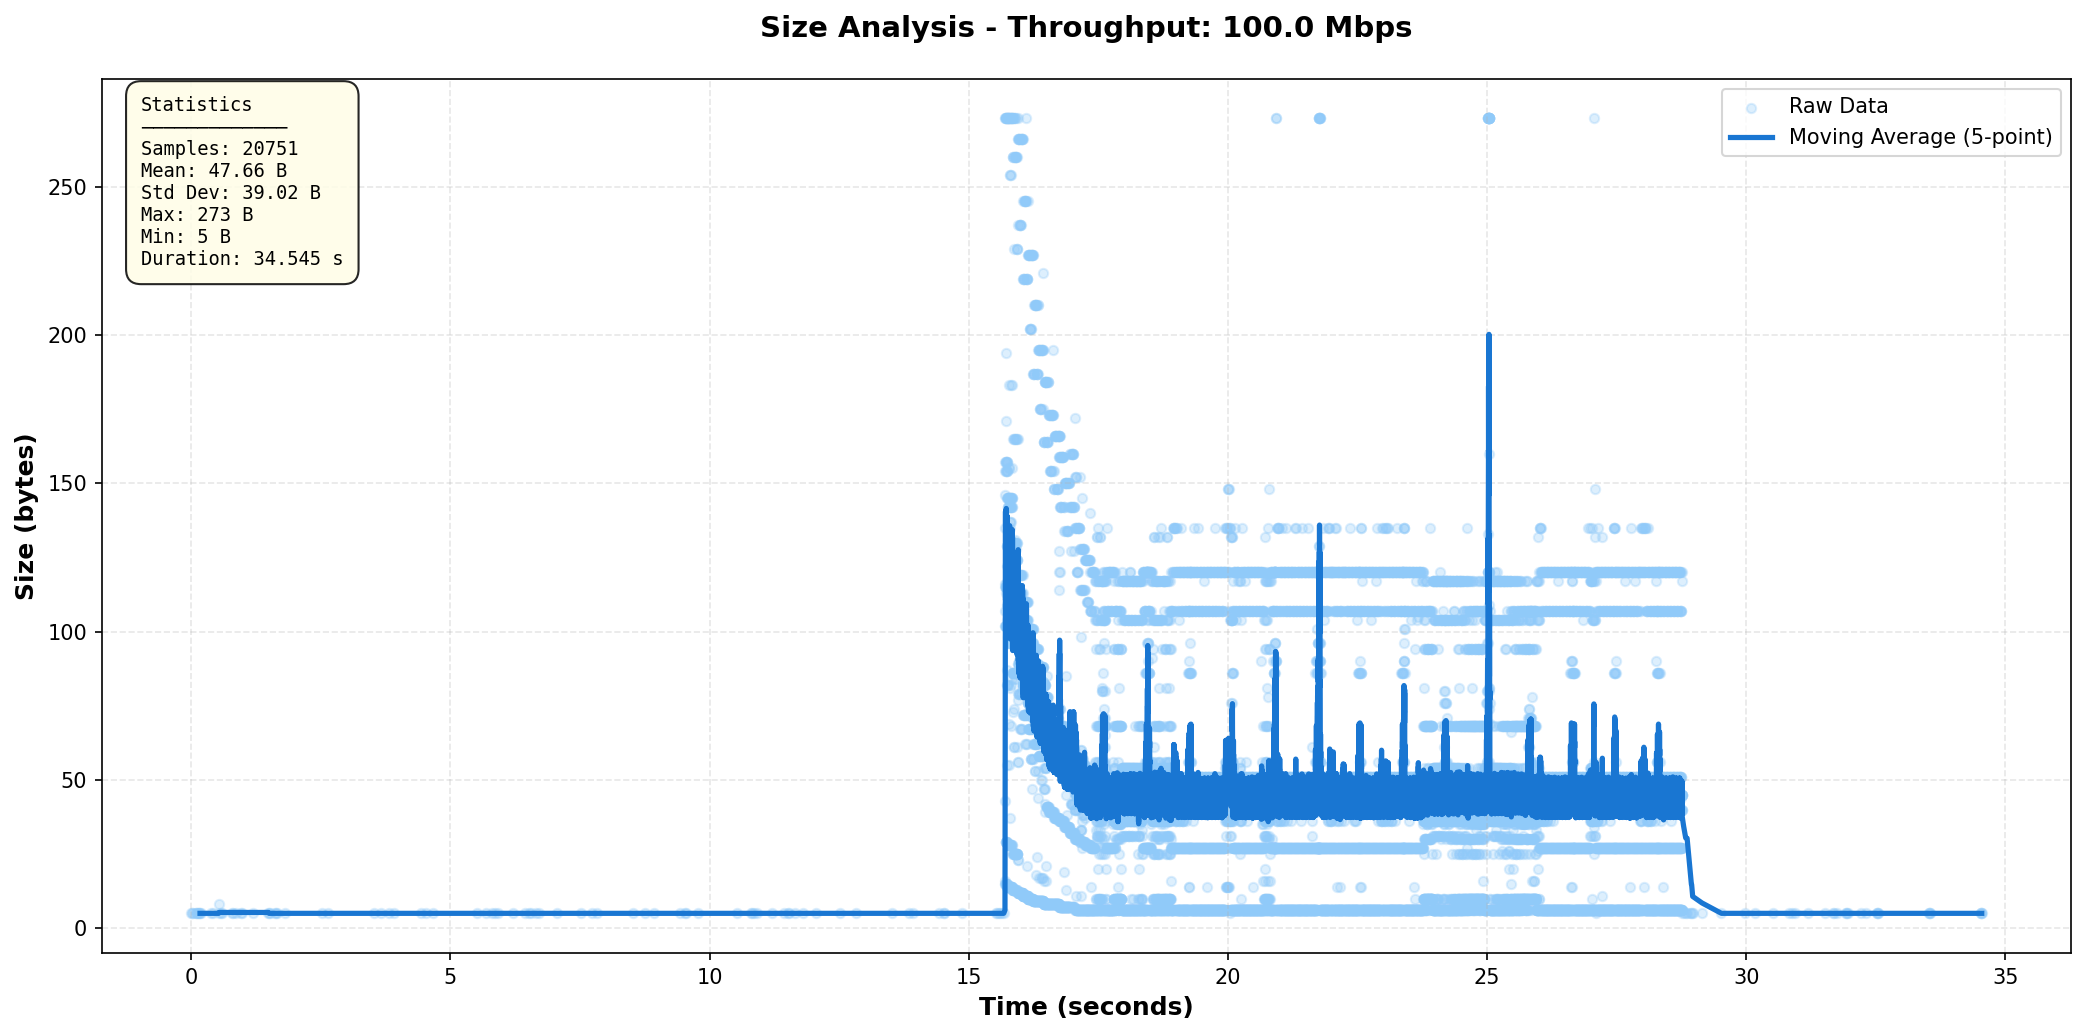
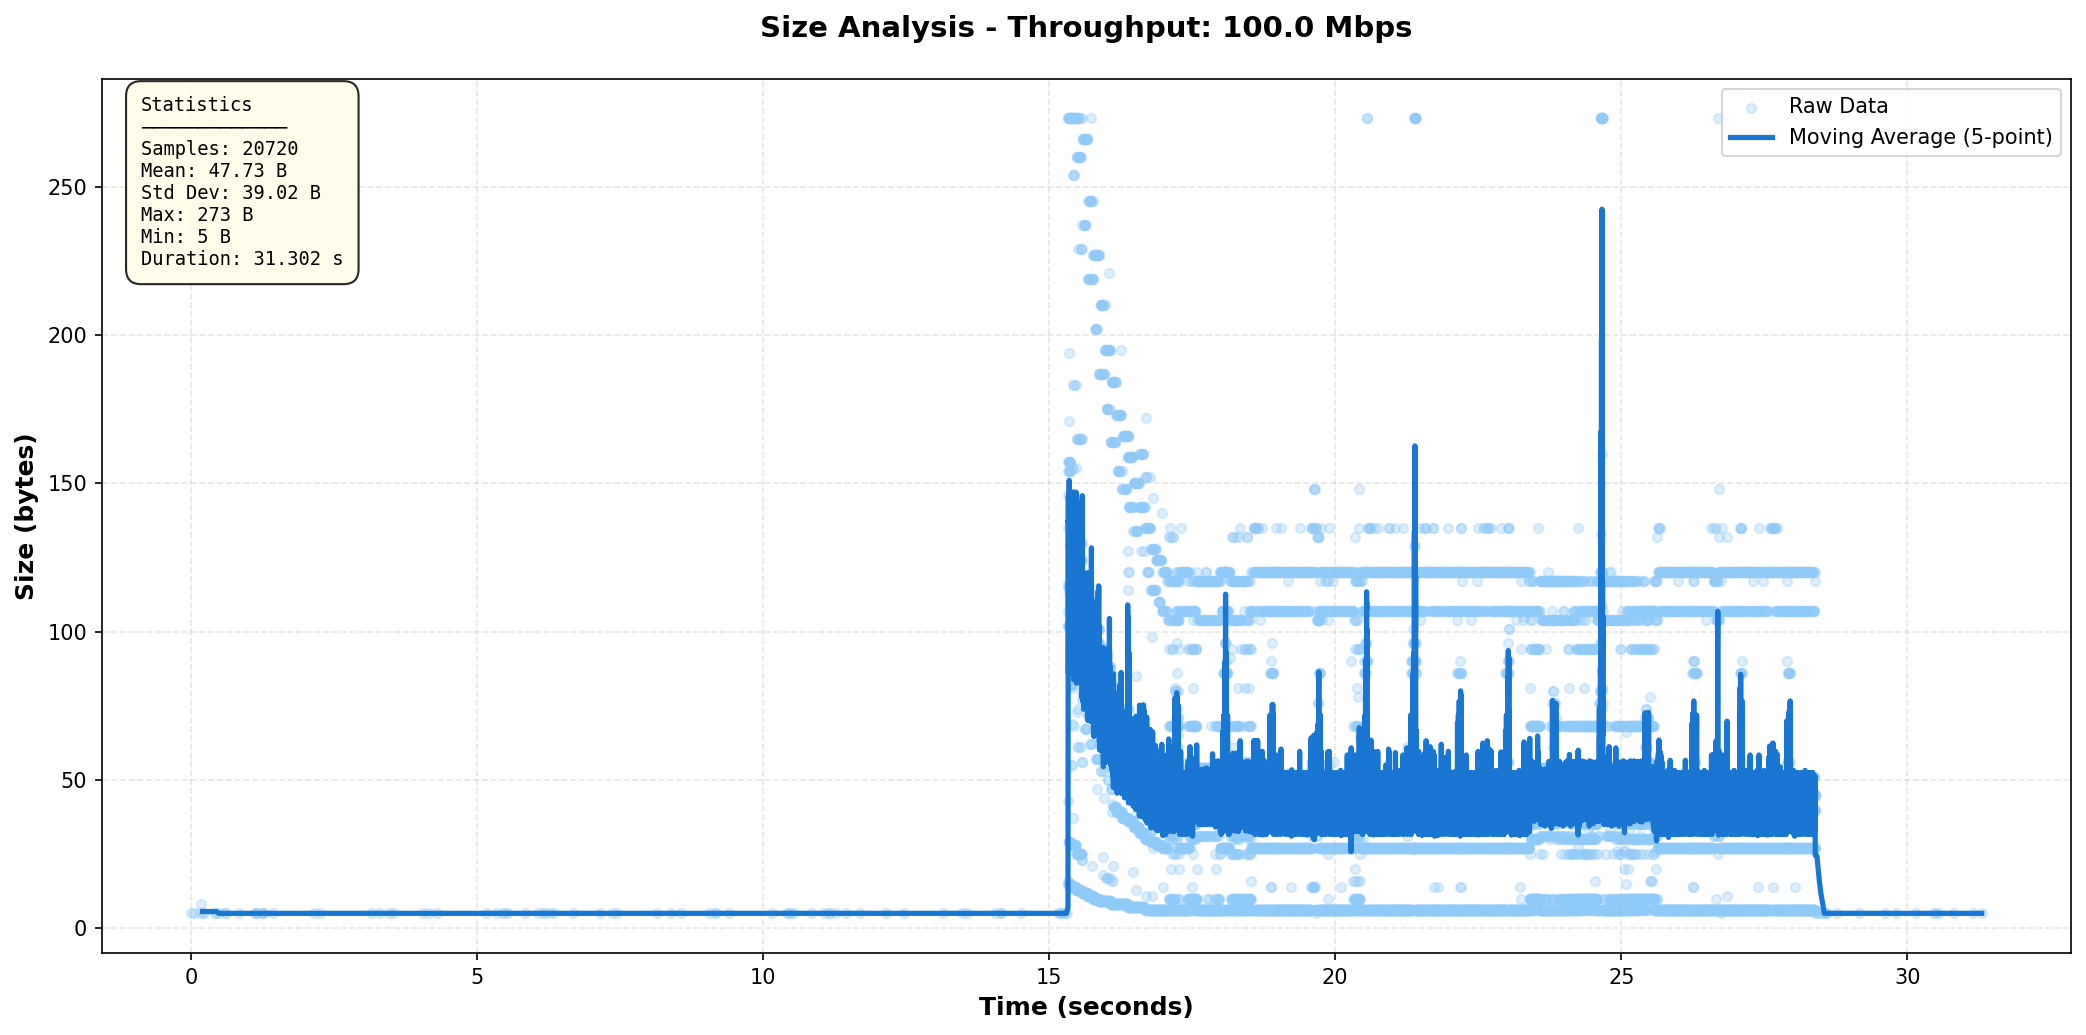
feat: Update log parser to v3 with auto-trimming of stable regions and improved visualization

diff --git a/PRB/log_parser.py b/PRB/log_parser.py
@@ -1,10 +1,12 @@
 #!/usr/bin/env python3
 """
-Log Parser for UE Size Analysis (Advanced v2)
+Log Parser for UE Size Analysis (Advanced v3)
 - Auto-extract throughput from filename
 - English only text to avoid font issues
 - Moving average + original data overlay for noisy data
 - Hide UE ID from filename and chart title
+- Auto-detect and trim stable regions (constant size=5) at start/end
+- Keep the main data section for consistent visualization
 """
 
 import sys
@@ -63,6 +65,62 @@ def parse_log_file(filepath):
         sys.exit(1)
     
     return ue_data
+
+def detect_and_trim_stable_regions(data, stable_threshold=5, min_stable_length=10):
+    """
+    Auto-detect and trim stable regions (constant value) at start and end.
+    
+    Detects where data becomes "interesting" (changes significantly from stable value).
+    This removes the boring setup/teardown phases before and after actual transmission.
+    
+    Args:
+        data: List of dicts with 'size' key
+        stable_threshold: Threshold for detecting stable region (default: size=5)
+        min_stable_length: Minimum consecutive samples to consider a region stable
+    
+    Returns:
+        tuple: (trimmed_data, start_idx, end_idx, trim_info_str)
+    """
+    if len(data) < min_stable_length:
+        return data, 0, len(data), "Data too short, no trimming applied"
+    
+    sizes = np.array([d['size'] for d in data])
+    
+    # Find where data differs from stable_threshold using difference detection
+    # This identifies where the interesting part starts/ends
+    changes = np.abs(np.diff(sizes.astype(float)))
+    
+    # Find significant changes (> 0, meaning size changed from previous)
+    change_indices = np.where(changes > 0)[0]
+    
+    if len(change_indices) == 0:
+        # All data is the same value, no trimming needed
+        return data, 0, len(data), "All data is constant"
+    
+    # The first significant change marks the start of interesting data
+    first_change_idx = change_indices[0]
+    
+    # The last significant change marks around the end of interesting data
+    last_change_idx = change_indices[-1]
+    
+    # Add buffer after last change to include post-change stable region
+    start_trim = max(0, first_change_idx - 2)  # Start from a bit before first change
+    end_trim = min(len(data), last_change_idx + 20)  # Include some data after last change
+    
+    # But ensure we're not trimming too much
+    if end_trim - start_trim < 20:  # Minimum keep 20 samples
+        # Try to keep at least 50% of data if changes are minimal
+        margin = max(len(data) // 4, 10)
+        start_trim = max(0, first_change_idx - margin)
+        end_trim = min(len(data), last_change_idx + margin)
+    
+    trimmed_data = data[start_trim:end_trim]
+    
+    trim_info = f"Trimmed: {start_trim} to {end_trim} (removed {start_trim} from start, {len(data)-end_trim} from end, kept {len(trimmed_data)} samples)"
+    
+    print(f"   TRIM: {trim_info}")
+    
+    return trimmed_data, start_trim, end_trim, trim_info
 
 def extract_throughput_from_filename(log_file):
     """
@@ -158,6 +216,7 @@ def calculate_moving_average(data, window=5):
 def plot_single_ue(ue_id, data, throughput=None, filename_prefix=None, separate=False):
     """
     Plot chart for single UE with moving average overlay
+    Auto-trims stable regions at start/end
     
     Returns:
         str: Saved filename
@@ -166,11 +225,18 @@ def plot_single_ue(ue_id, data, throughput=None, filename_prefix=None, separate=
     import warnings
     warnings.filterwarnings('ignore', category=UserWarning)
     
+    # Auto-detect and trim stable regions
+    trimmed_data, start_idx, end_idx, trim_info = detect_and_trim_stable_regions(data)
+    
+    if len(trimmed_data) < 5:
+        print(f"   ERROR: Not enough data after trimming")
+        return None
+    
     fig, ax = plt.subplots(figsize=(14, 7))
     
     # Prepare data
-    timestamps = [d['timestamp'] for d in data]
-    sizes = [d['size'] for d in data]
+    timestamps = [d['timestamp'] for d in trimmed_data]
+    sizes = [d['size'] for d in trimmed_data]
     
     # Normalize timestamps (start from 0)
     min_timestamp = min(timestamps)
@@ -178,7 +244,7 @@ def plot_single_ue(ue_id, data, throughput=None, filename_prefix=None, separate=
     sizes = np.array(sizes)
     
     # Calculate moving average for smoothing (window = 5)
-    window_size = 10
+    window_size = 5
     if len(sizes) >= window_size:
         smoothed_sizes = calculate_moving_average(sizes, window=window_size)
         smoothed_times = relative_times[window_size-1:]
@@ -244,6 +310,7 @@ def plot_single_ue(ue_id, data, throughput=None, filename_prefix=None, separate=
 def plot_all_ues_combined(ue_data, ues_to_plot, throughput=None, filename_prefix=None):
     """
     Plot multiple UEs in subplots with moving average overlay
+    Auto-trims stable regions
     """
     # Suppress warnings
     import warnings
@@ -273,13 +340,21 @@ def plot_all_ues_combined(ue_data, ues_to_plot, throughput=None, filename_prefix
     
     for idx, ue_id in enumerate(ues_to_plot):
         data = ue_data[ue_id]
+        
+        # Auto-trim stable regions
+        trimmed_data, _, _, _ = detect_and_trim_stable_regions(data)
+        
+        if len(trimmed_data) < 5:
+            print(f"   WARNING: Skipping UE {ue_id}, not enough data after trimming")
+            continue
+        
         row = idx // cols
         col = idx % cols
         ax = axes[row, col]
         
         # Prepare data
-        timestamps = [d['timestamp'] for d in data]
-        sizes = np.array([d['size'] for d in data])
+        timestamps = [d['timestamp'] for d in trimmed_data]
+        sizes = np.array([d['size'] for d in trimmed_data])
         
         # Normalize timestamps
         min_timestamp = min(timestamps)
@@ -337,19 +412,25 @@ def plot_all_ues_combined(ue_data, ues_to_plot, throughput=None, filename_prefix
 
 def print_summary(ue_data, ues_to_plot):
     """
-    Print UE data summary
+    Print UE data summary (before trimming)
     """
     print("\n" + "="*70)
-    print("SUMMARY")
+    print("SUMMARY (After Trimming)")
     print("="*70)
     
     for ue_id in ues_to_plot:
         data = ue_data[ue_id]
-        sizes = [d['size'] for d in data]
-        timestamps = [d['timestamp'] for d in data]
+        
+        # Show trimming info
+        trimmed_data, _, _, trim_info = detect_and_trim_stable_regions(data)
+        
+        sizes = [d['size'] for d in trimmed_data]
+        timestamps = [d['timestamp'] for d in trimmed_data]
         
         print(f"\nUE {ue_id}:")
-        print(f"   Samples: {len(data)}")
+        print(f"   Original: {len(data)} samples")
+        print(f"   {trim_info}")
+        print(f"   Samples: {len(sizes)}")
         print(f"   Mean Size: {np.mean(sizes):.2f} bytes")
         print(f"   Max Size: {np.max(sizes)} bytes")
         print(f"   Min Size: {np.min(sizes)} bytes")
@@ -370,6 +451,11 @@ Usage Examples:
   python3 log_parser.py ./measure-PRB.txt -t 125.5
   python3 log_parser.py ./measure-PRB.txt --separate
   python3 log_parser.py ./measure-PRB.txt -o custom_name
+
+Features:
+  - Auto-detect throughput from filename (e.g., 500M)
+  - Auto-trim stable regions at start/end
+  - Generate consistent visualizations
 
 Automatic throughput extraction:
   measure-PRB-500M.txt  -> 500 Mbps
@@ -400,7 +486,7 @@ Options:
     args = parser.parse_args()
     
     print(f"\n{'='*70}")
-    print("Log Parser for UE Size Analysis v2")
+    print("Log Parser for UE Size Analysis v3")
     print(f"{'='*70}")
     print(f"Log file: {args.log_file}")
     
@@ -421,7 +507,7 @@ Options:
     if throughput is not None:
         print(f"Throughput: {throughput} Mbps (from {'command' if args.throughput else 'filename'})")
     
-    # Print summary
+    # Print summary (with trimming info)
     print_summary(ue_data, ues_to_plot)
     
     # Generate output filename
@@ -441,11 +527,13 @@ Options:
                 filename_prefix=filename_prefix,
                 separate=True
             )
-            output_files.append(output_file)
+            if output_file:
+                output_files.append(output_file)
         
-        print(f"\nChart saved:")
-        for f in output_files:
-            print(f"   {f}")
+        if output_files:
+            print(f"\nChart saved:")
+            for f in output_files:
+                print(f"   {f}")
     else:
         # Multiple UEs combined
         output_file = plot_all_ues_combined(
